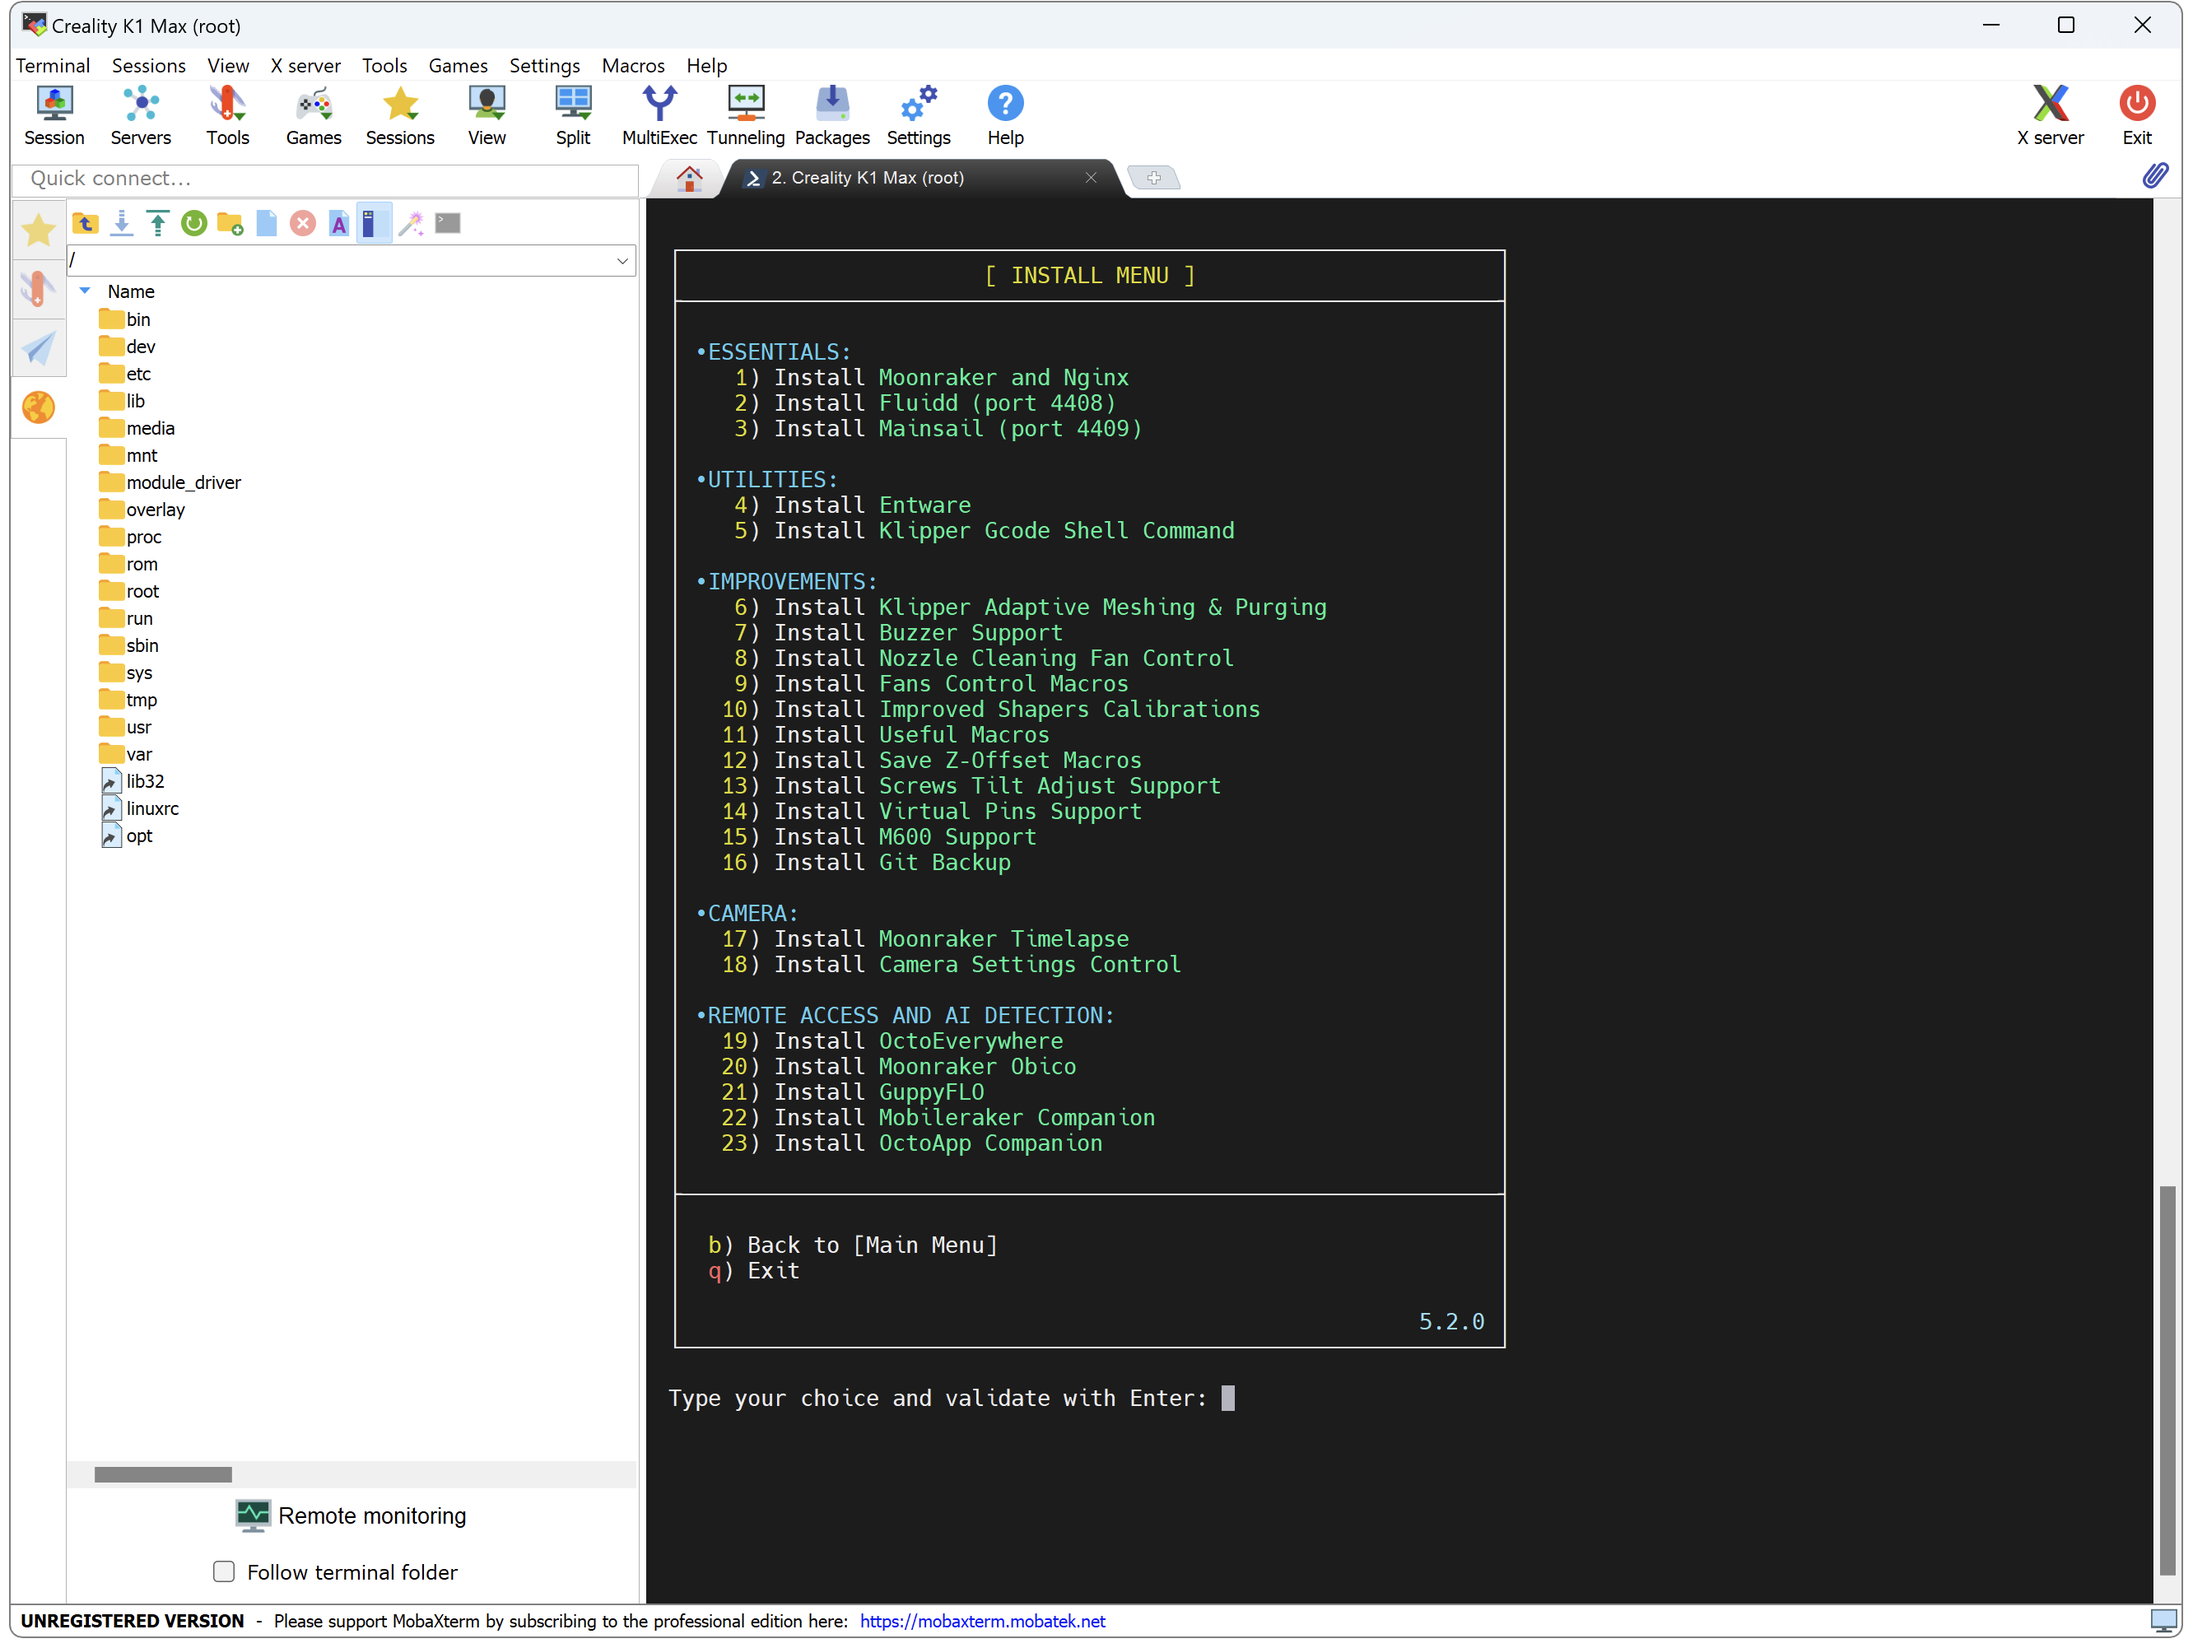
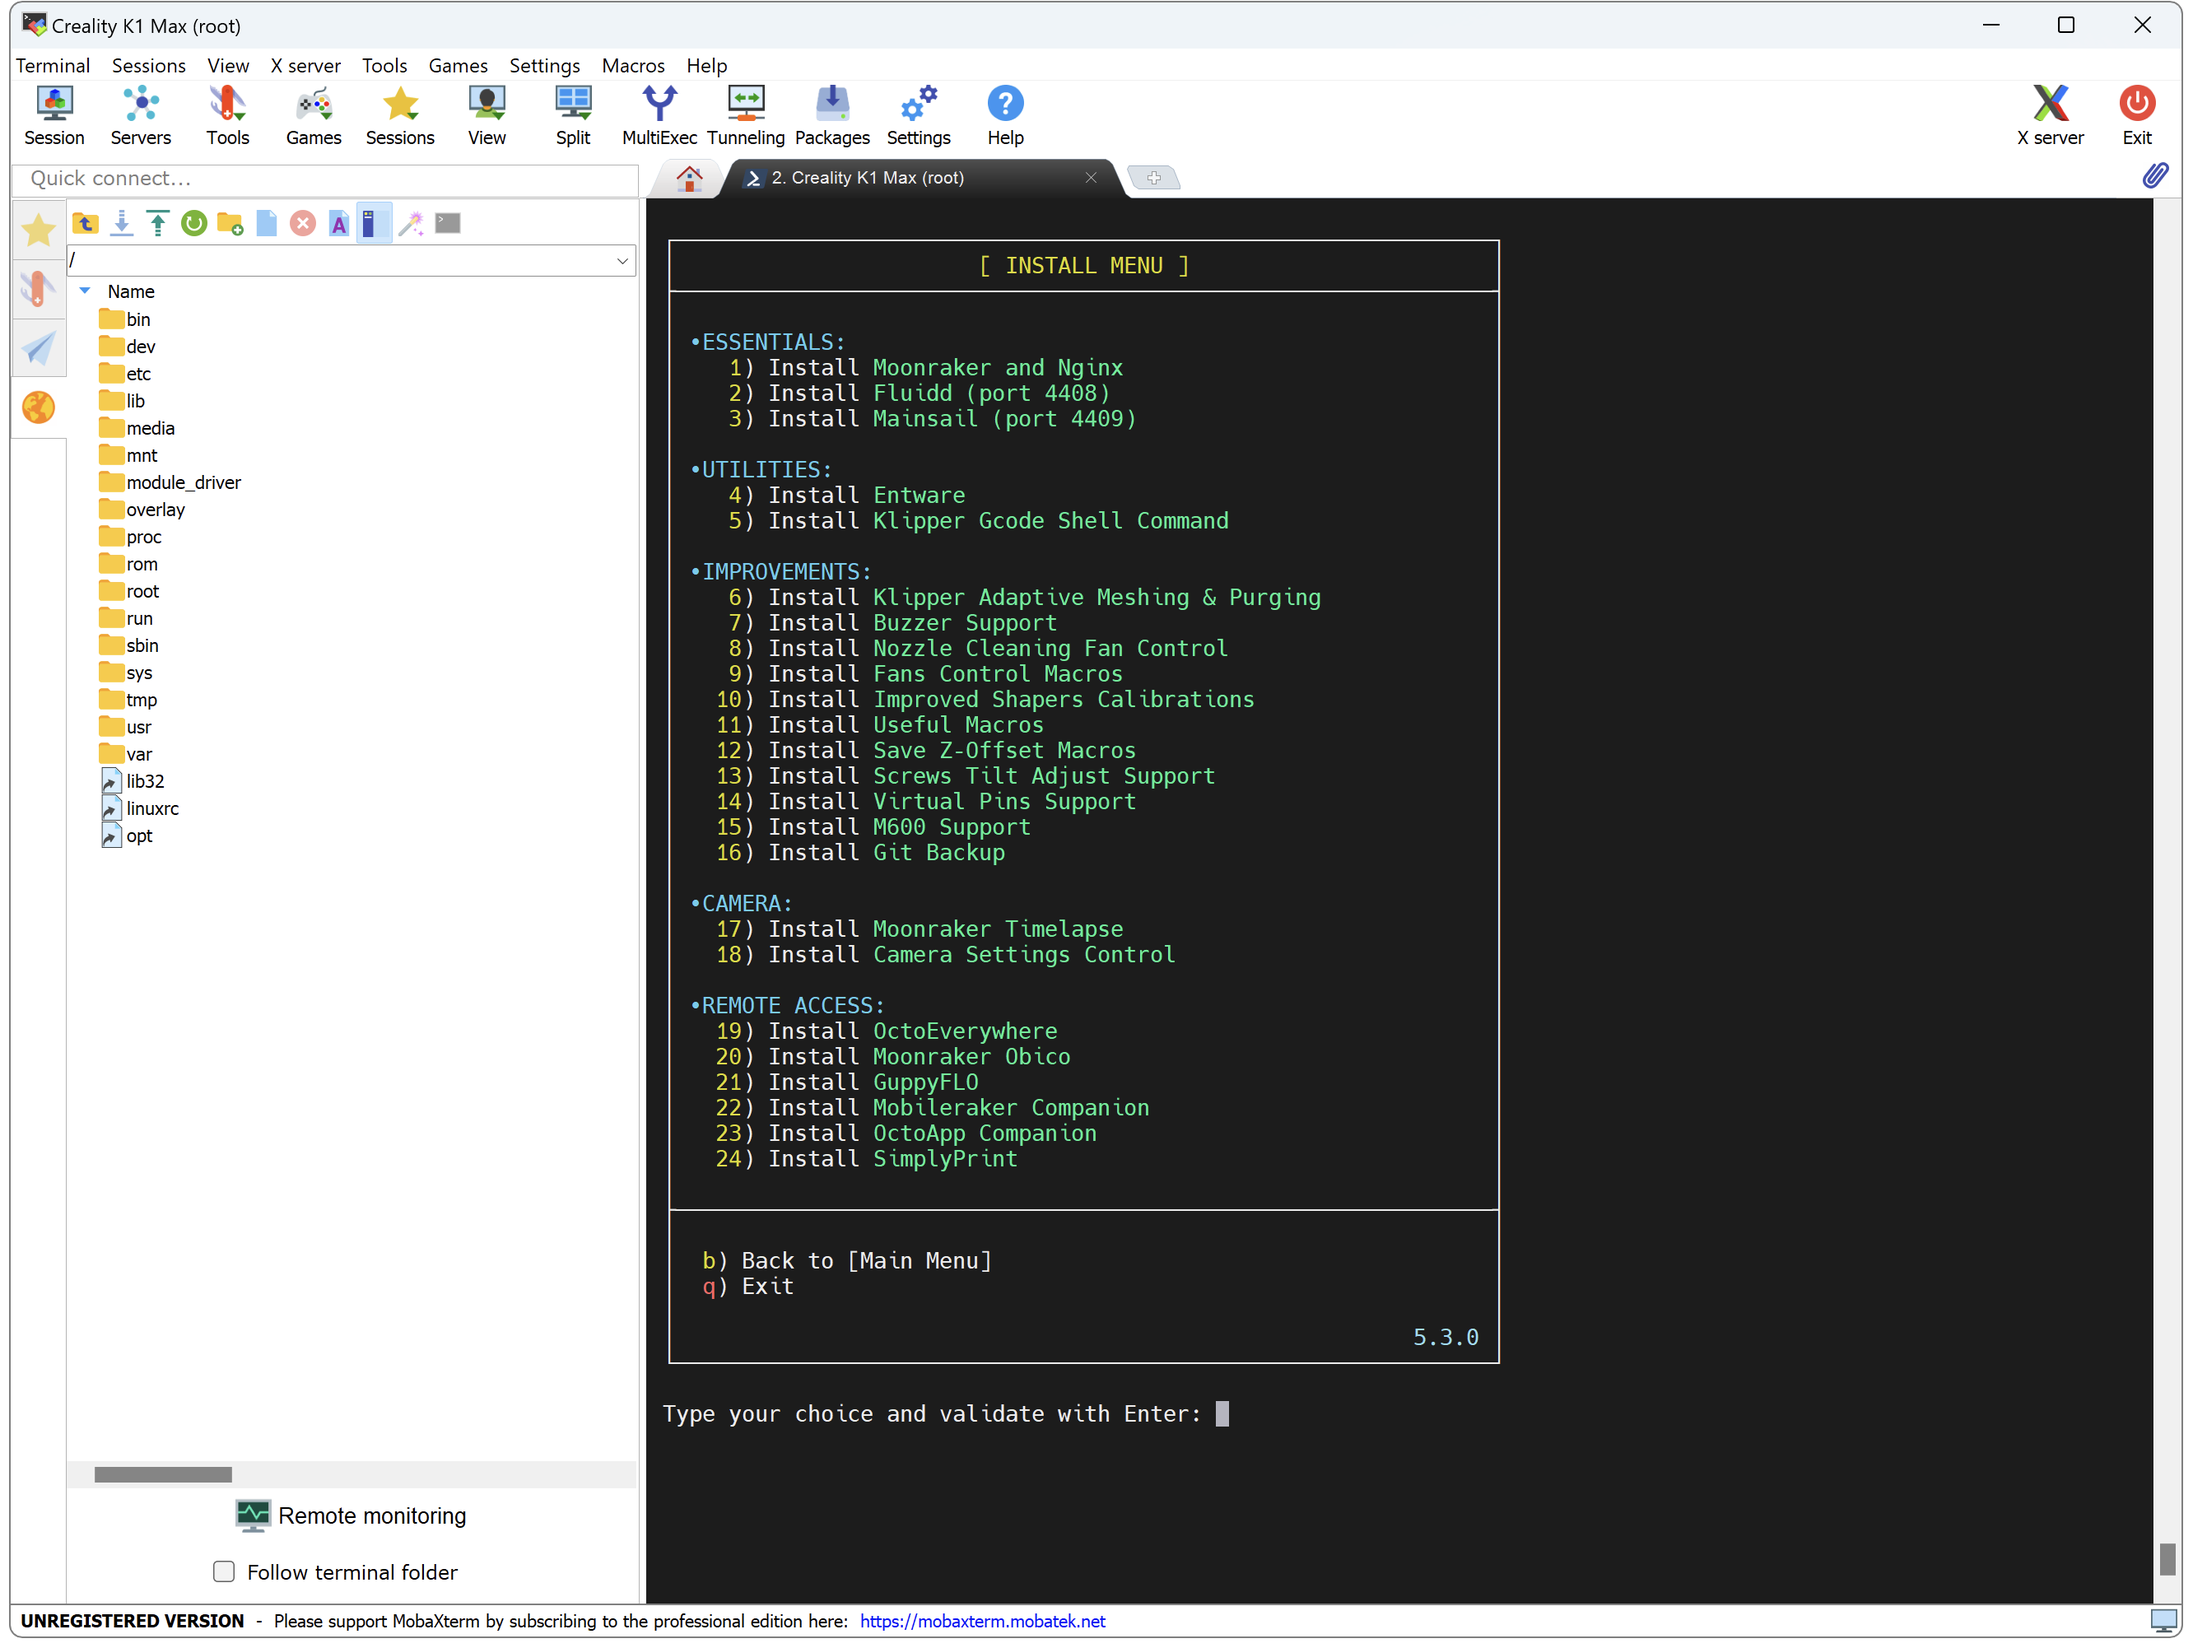
Update

diff --git a/docs/helper-script/simplyprint.md b/docs/helper-script/simplyprint.md
@@ -1,0 +1,63 @@
+SimplyPrint allows you to start those prints that you just need to be done sooner rather than later. You can send print jobs to your printer from anywhere in the world.
+
+More info about SimplyPrint: :material-web: [Here](https://simplyprint.io/)
+
+!!! Note
+    **This procedure must be repeated after restoring the printer to factory settings.**
+
+
+## Installation
+<hr>
+
+- Make sure you have followed this <a href="../../helper-script/helper-script-installation">Helper Script Installation</a> section before.
+
+- In the script, enter in `[Install] Menu` by typing ++"1"++ , validate with ++"Enter"++ and install `SimplyPrint`:
+
+    <img width="900" src="../../assets/img/Creality-Helper-Script/Install_Menu.png">
+
+
+## Download SimplyPrint
+<hr>
+
+<a href="https://play.google.com/store/apps/details?id=com.simplyprint.appdev"><img width="350" src="../../assets/img/SimplyPrint/SimplyPrint_Google_Play.png"></a>&nbsp;&nbsp;&nbsp;&nbsp;&nbsp;&nbsp;&nbsp;&nbsp;
+<a href="https://apps.apple.com/us/app/simplyprint-3d-printing/id1519749400"><img width="350" src="../../assets/img/SimplyPrint/SimplyPrint_App_Store.png"></a>
+
+
+## Configuration
+<hr>
+
+- Create an account on SimplyPrint website: :material-web: [Sign up](https://simplyprint.io/panel/signup?utm_source=lp_nav)
+
+-  Click on `Add your first printer`:
+
+    <img width="900" src="../../assets/img/SimplyPrint/01.png">
+
+- Then, click on `2. Link printer (after setup guide)`:
+
+    <img width="900" src="../../assets/img/SimplyPrint/02.png">
+
+- At this stage, your printer should be automatically detected, click on `SETUP` button and select the correct printer you use:
+
+    <img width="900" src="../../assets/img/SimplyPrint/03.png">
+
+- If it's not the case, access to your Fluidd or Mainsail Web Interface.
+  
+- In the **Announcements** bell in the top bar, find the `SimplyPrint Setup Request` message and copy the setup code:
+
+  | Fluidd | Mainsail |
+  | :---------: | :---------: |
+  | <img src="../../assets/img/SimplyPrint/Setup_Code_Fluidd.png"> | <img src="../../assets/img/SimplyPrint/Setup_Code_Mainsail.png"> |
+
+- Then, enter this code here:
+
+    <img width="900" src="../../assets/img/SimplyPrint/04.png">
+
+- You have now access to SimplyPrint interface:
+
+    <img width="900" src="../../assets/img/SimplyPrint/05.png">
+
+<br />
+
+**If you like my work, don't hesitate to support me by paying me a 🍺 or a ☕. Thank you 🙂**
+
+<a href="https://ko-fi.com/guilouz" target="_blank"><img width="350" src="../../assets/img/home/Ko-fi.png"></a>

diff --git a/docs/changelog.md b/docs/changelog.md
@@ -2,6 +2,10 @@
 hide:
   - toc
 ---
+#### 31/03/2024
+
+  - Updated script to 5.3.0 to add support for `SimplyPrint`. See new section on wiki [here](helper-script/simplyprint.md).
+  
 #### 30/03/2024
 
   - Updated script to 5.2.0 to add support for `OctoApp Companion` (Thanks to [crysxd](https://github.com/crysxd)). See new section on wiki [here](helper-script/octoapp-companion.md).
